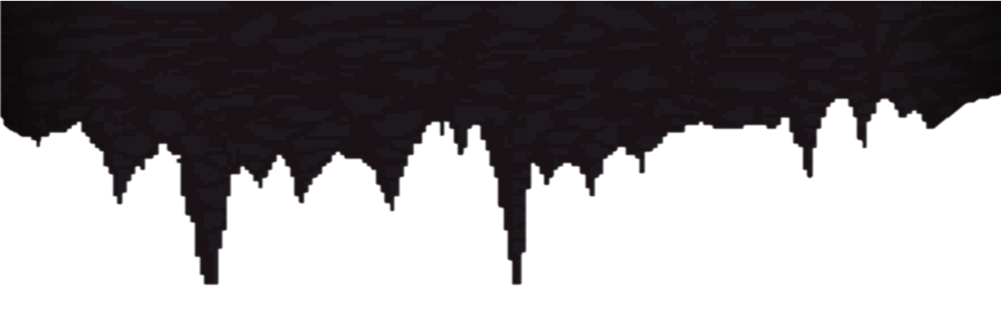
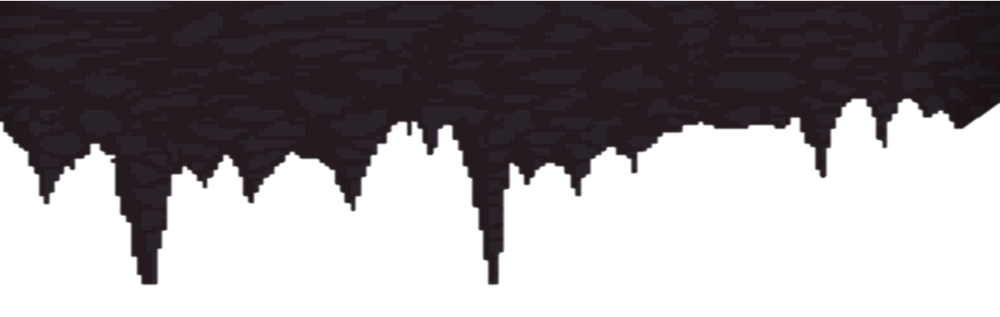
images.

diff --git a/final.py b/final.py
@@ -1,6 +1,7 @@
 import pygame
 from sys import exit # to exit the game without having issues with the True loop
 from random import randint
+import math
 
 # 01. Basic Setup
 # 02. Surfaces
@@ -96,7 +97,9 @@ def proton_animation():
 
 # Setup
 pygame.init()
-screen = pygame.display.set_mode((1200,650)) # Create screen. This code ends, so to keep it running we use the while True (is never False).
+SCREEN_WIDTH = 1200
+SCREEN_HEIGHT = 650
+screen = pygame.display.set_mode((SCREEN_WIDTH,SCREEN_HEIGHT)) # Create screen. This code ends, so to keep it running we use the while True (is never False).
 pygame.display.set_caption('Monster Arena')
 clock = pygame.time.Clock() # clock object to handle frame rate
 test_font = pygame.font.Font('font/Pixeltype.ttf', 50)
@@ -107,9 +110,15 @@ score = 0
 # Surfaces
 sky_surface = pygame.image.load('graphics/sky.png').convert_alpha()
 sky_surface = pygame.transform.rotozoom(sky_surface,0,1.2)
+sky_surface_width = sky_surface.get_width()
 
 sky_background_surface = pygame.image.load('graphics/sky-background.png').convert()
 sky_background_surface = pygame.transform.rotozoom(sky_background_surface,0,0.35)
+
+# Define game variables
+scroll_sky_background = 0
+scroll_sky = 0
+tiles = math.ceil(SCREEN_WIDTH / sky_surface_width) + 1
 
 ground_surface = pygame.image.load('graphics/ground.png').convert_alpha()
 ground_surface = pygame.transform.rotozoom(ground_surface,0,2)
@@ -198,9 +207,23 @@ while running: # The game will be continuously updated.
                 bad_atom_rect_list.append(bad_atom_surf.get_rect(bottomright = (randint(1100,1500),randint(80,220)))) 
 
     if game_active:
-        print(player_rect.midbottom[1],score)
-        screen.blit(sky_background_surface,(0,110)) # block image transfer -> to display images in screen
-        screen.blit(sky_surface,(0,0))
+        # print(player_rect.midbottom[1],score)
+        # SKY BACKGROUND SURFACE
+        for i in range(0,tiles):
+            screen.blit(sky_background_surface,(i * sky_surface_width + scroll_sky_background,110))
+        # scrolling sky_surface background and reseting
+        scroll_sky_background -= 3
+        if abs(scroll_sky_background) > sky_surface_width:
+            scroll_sky_background = 0
+
+        # SKY SURFACE
+        for i in range(0,tiles):
+            screen.blit(sky_surface,(i * sky_surface_width + scroll_sky,0))
+        # scrolling sky_surface background and reseting
+        scroll_sky -= 5
+        if abs(scroll_sky) > sky_surface_width:
+            scroll_sky = 0
+
         screen.blit(ground_surface,(0,450))
 
         score = displayScore()
